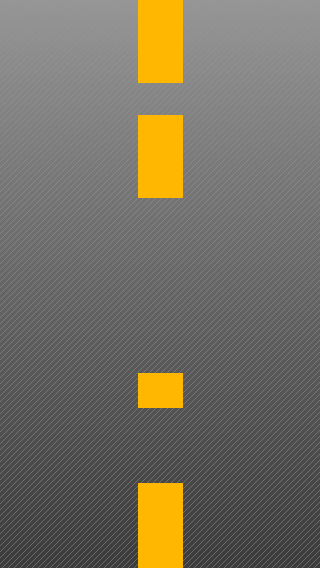
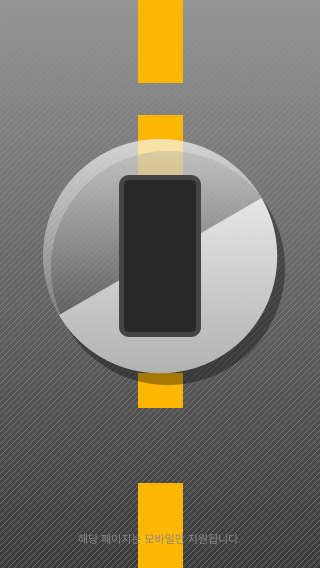
intro 제작 중

Changed region(s): [[0.125, 0.2394, 0.9062, 0.6884], [0.25, 0.9278, 0.6875, 0.9577], [0.7188, 0.9278, 0.75, 0.9577]]

diff --git a/public/img/intro_Traffic_car.tsx b/public/img/intro_Traffic_car.tsx
@@ -1,0 +1,66 @@
+const Traffic = ({ bgcolor }: { bgcolor: string }) => {
+  return (
+    <svg
+      width="50"
+      height="23"
+      viewBox="0 0 31 23"
+      fill="none"
+      xmlns="http://www.w3.org/2000/svg"
+    >
+      <path
+        d="M16.225 1H7.9226C7.47339 1 7.07931 1.29954 6.95908 1.73236L5.44114 7.19694C5.38205 7.40965 5.25424 7.59683 5.07762 7.72929L2.85001 9.4C2.59821 9.58885 2.45001 9.88524 2.45001 10.2V16.675C2.45001 17.2273 2.89773 17.675 3.45001 17.675H16.225"
+        stroke={bgcolor}
+      />
+      <path
+        d="M2.44999 15.8625H2.36249C1.8102 15.8625 1.36249 16.3103 1.36249 16.8625V20.6625C1.36249 21.2148 1.8102 21.6625 2.36249 21.6625H3.62499C4.17727 21.6625 4.62499 21.2148 4.62499 20.6625V17.3125"
+        stroke={bgcolor}
+      />
+      <path
+        d="M5.35 7.6701L3.83778 5.73445C3.64826 5.49187 3.35759 5.3501 3.04975 5.3501H2C1.44772 5.3501 1 5.79781 1 6.3501V6.3801C1 6.93238 1.44772 7.3801 2 7.3801H3.06912C3.3659 7.3801 3.64735 7.51192 3.83735 7.73991L4.2625 8.2501"
+        stroke={bgcolor}
+      />
+      <path
+        d="M16.225 2.44995H8.77256C8.30739 2.44995 7.90365 2.7707 7.79846 3.22382L7.08463 6.29882C6.93908 6.92577 7.4151 7.52495 8.05872 7.52495H16.225"
+        stroke={bgcolor}
+      />
+      <path
+        d="M16.225 14.4126H7.79999C7.2477 14.4126 6.79999 14.8603 6.79999 15.4126V15.5876C6.79999 16.1399 7.2477 16.5876 7.79999 16.5876H16.225"
+        stroke={bgcolor}
+      />
+      <path
+        d="M16.225 9.69995H5.07008C4.62407 9.69995 4.26251 10.0615 4.26251 10.5075V10.5075C4.26251 10.8836 4.52207 11.2098 4.88849 11.2944L8.86404 12.2118C8.93778 12.2289 9.01322 12.2375 9.0889 12.2375H16.225"
+        stroke={bgcolor}
+      />
+      <path d="M6.4375 9.69995V11.5125" stroke={bgcolor} />
+      <path d="M10.7875 9.69995V12.2375" stroke={bgcolor} />
+      <path
+        d="M14.775 1H23.0774C23.5266 1 23.9207 1.29954 24.0409 1.73236L25.5589 7.19694C25.6179 7.40965 25.7458 7.59683 25.9224 7.72929L28.15 9.4C28.4018 9.58885 28.55 9.88524 28.55 10.2V16.675C28.55 17.2273 28.1023 17.675 27.55 17.675H14.775"
+        stroke={bgcolor}
+      />
+      <path
+        d="M28.55 15.8625H28.6375C29.1898 15.8625 29.6375 16.3103 29.6375 16.8625V20.6625C29.6375 21.2148 29.1898 21.6625 28.6375 21.6625H27.375C26.8227 21.6625 26.375 21.2148 26.375 20.6625V17.3125"
+        stroke={bgcolor}
+      />
+      <path
+        d="M25.65 7.6701L27.1622 5.73445C27.3517 5.49187 27.6424 5.3501 27.9502 5.3501H29C29.5523 5.3501 30 5.79781 30 6.3501V6.3801C30 6.93238 29.5523 7.3801 29 7.3801H27.9309C27.6341 7.3801 27.3526 7.51192 27.1627 7.73991L26.7375 8.2501"
+        stroke={bgcolor}
+      />
+      <path
+        d="M14.775 2.44995H22.2274C22.6926 2.44995 23.0963 2.7707 23.2015 3.22382L23.9154 6.29882C24.0609 6.92577 23.5849 7.52495 22.9413 7.52495H14.775"
+        stroke={bgcolor}
+      />
+      <path
+        d="M14.775 14.4126H23.2C23.7523 14.4126 24.2 14.8603 24.2 15.4126V15.5876C24.2 16.1399 23.7523 16.5876 23.2 16.5876H14.775"
+        stroke={bgcolor}
+      />
+      <path
+        d="M14.775 9.69995H25.9299C26.3759 9.69995 26.7375 10.0615 26.7375 10.5075V10.5075C26.7375 10.8836 26.4779 11.2098 26.1115 11.2944L22.136 12.2118C22.0622 12.2289 21.9868 12.2375 21.9111 12.2375H14.775"
+        stroke={bgcolor}
+      />
+      <path d="M24.5625 9.69995V11.5125" stroke={bgcolor} />
+      <path d="M20.2125 9.69995V12.2375" stroke={bgcolor} />
+    </svg>
+  );
+};
+
+export default Traffic;

diff --git a/public/index.html b/public/index.html
@@ -1,20 +1,26 @@
 <!DOCTYPE html>
 <html lang="ko">
+  <head>
+    <meta charset="UTF-8" />
+    <meta http-equiv="X-UA-Compatible" content="IE=edge" />
+    <meta name="viewport" content="width=device-width, initial-scale=1.0" />
+    <script
+      type="text/javascript"
+      src="//dapi.kakao.com/v2/maps/sdk.js?appkey=<%= htmlWebpackPlugin.options.env.REACT_APP_KAKAO_KEY %>&libraries=services"
+    ></script>
+    <title>Project_B</title>
+    <style>
+      body {
+        margin: 0;
+        padding: 0;
+      }
+    </style>
+  </head>
 
-<head>
-  <meta charset="UTF-8">
-  <meta http-equiv="X-UA-Compatible" content="IE=edge">
-  <meta name="viewport" content="width=device-width, initial-scale=1.0">
-  <script type="text/javascript"
-    src="//dapi.kakao.com/v2/maps/sdk.js?appkey=<%= htmlWebpackPlugin.options.env.REACT_APP_KAKAO_KEY %>&libraries=services"></script>
-  <title>Project_B</title>
-</head>
-
-<body>
-  <div id="root"></div>
-  <script>
-    console.log(window);
-  </script>
-</body>
-
+  <body>
+    <div id="root"></div>
+    <script>
+      console.log(window);
+    </script>
+  </body>
 </html>

diff --git a/src/Components/Intro/Intro.tsx b/src/Components/Intro/Intro.tsx
@@ -1,0 +1,44 @@
+import styled from "styled-components";
+import { calcPx } from "@/Hooks/CalcPx";
+import Traffic from "../../../public/img/intro_Traffic_car";
+
+const IntroWrap = styled.div`
+  background: white & > div {
+    width: ${calcPx(100)};
+    height: ${calcPx(70)};
+    display: flex;
+    justify-content: center;
+    align-items: center;
+  }
+
+  ${({ theme }) => theme.device.mobile} {
+    // 768 이하
+    width: 100vw;
+    height: 100vh;
+    background: url("/img/Intro_bg.png") no-repeat;
+    background-size: 100vw 100vh;
+    display: flex;
+    justify-content: center;
+    align-items: center;
+    flex-direction: column;
+  }
+`;
+
+const Intro = () => {
+  return (
+    <IntroWrap>
+      <img src="/img/Intro_AllGreen.png" alt="로고"></img>
+      <div>
+        <Traffic bgcolor="red" />
+      </div>
+      <div>
+        <Traffic bgcolor="yellow" />
+      </div>
+      <div>
+        <Traffic bgcolor="green" />
+      </div>
+    </IntroWrap>
+  );
+};
+
+export default Intro;

diff --git a/src/Components/Layout.tsx b/src/Components/Layout.tsx
@@ -1,5 +1,5 @@
-import AxiosExample from './AxiosExample';
-import styled from 'styled-components';
+import AxiosExample from "./AxiosExample";
+import styled from "styled-components";
 
 const Media = styled.div`
   width: 100px;
@@ -13,8 +13,8 @@ const Media = styled.div`
 const LayOut = () => {
   return (
     <>
-      <Media />
-      <AxiosExample />
+      {/* <Media />
+      <AxiosExample /> */}
     </>
   );
 };

diff --git a/src/App.tsx b/src/App.tsx
@@ -1,9 +1,11 @@
-import '@/App.css';
-import LayOut from './Components/Layout';
+import "@/App.css";
+import LayOut from "./Components/Layout";
+import Intro from "./Components/Intro/Intro";
 
 const App = () => {
   return (
     <>
+      <Intro />
       <LayOut />
     </>
   );
